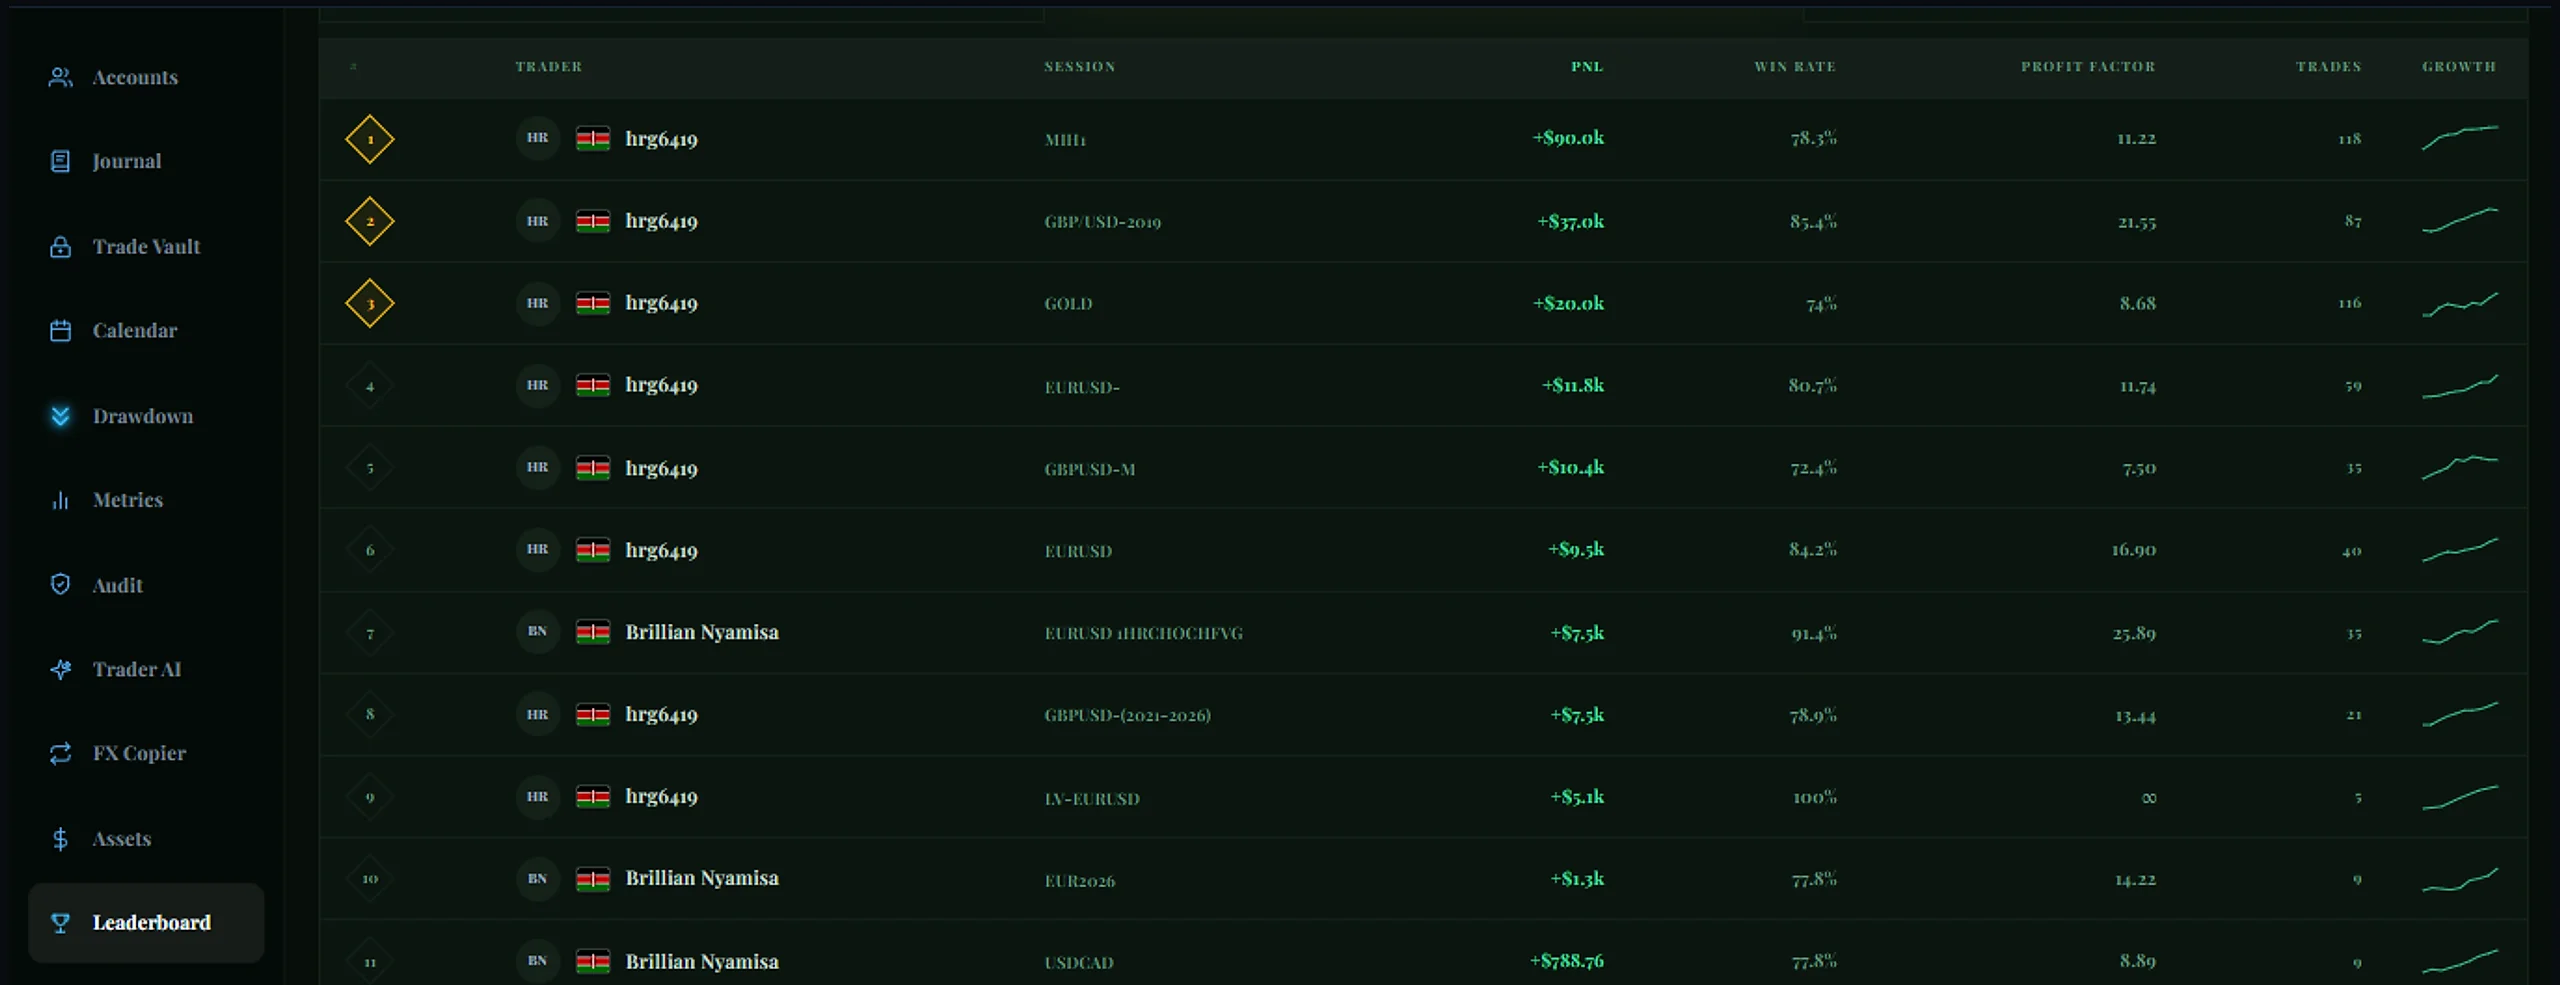
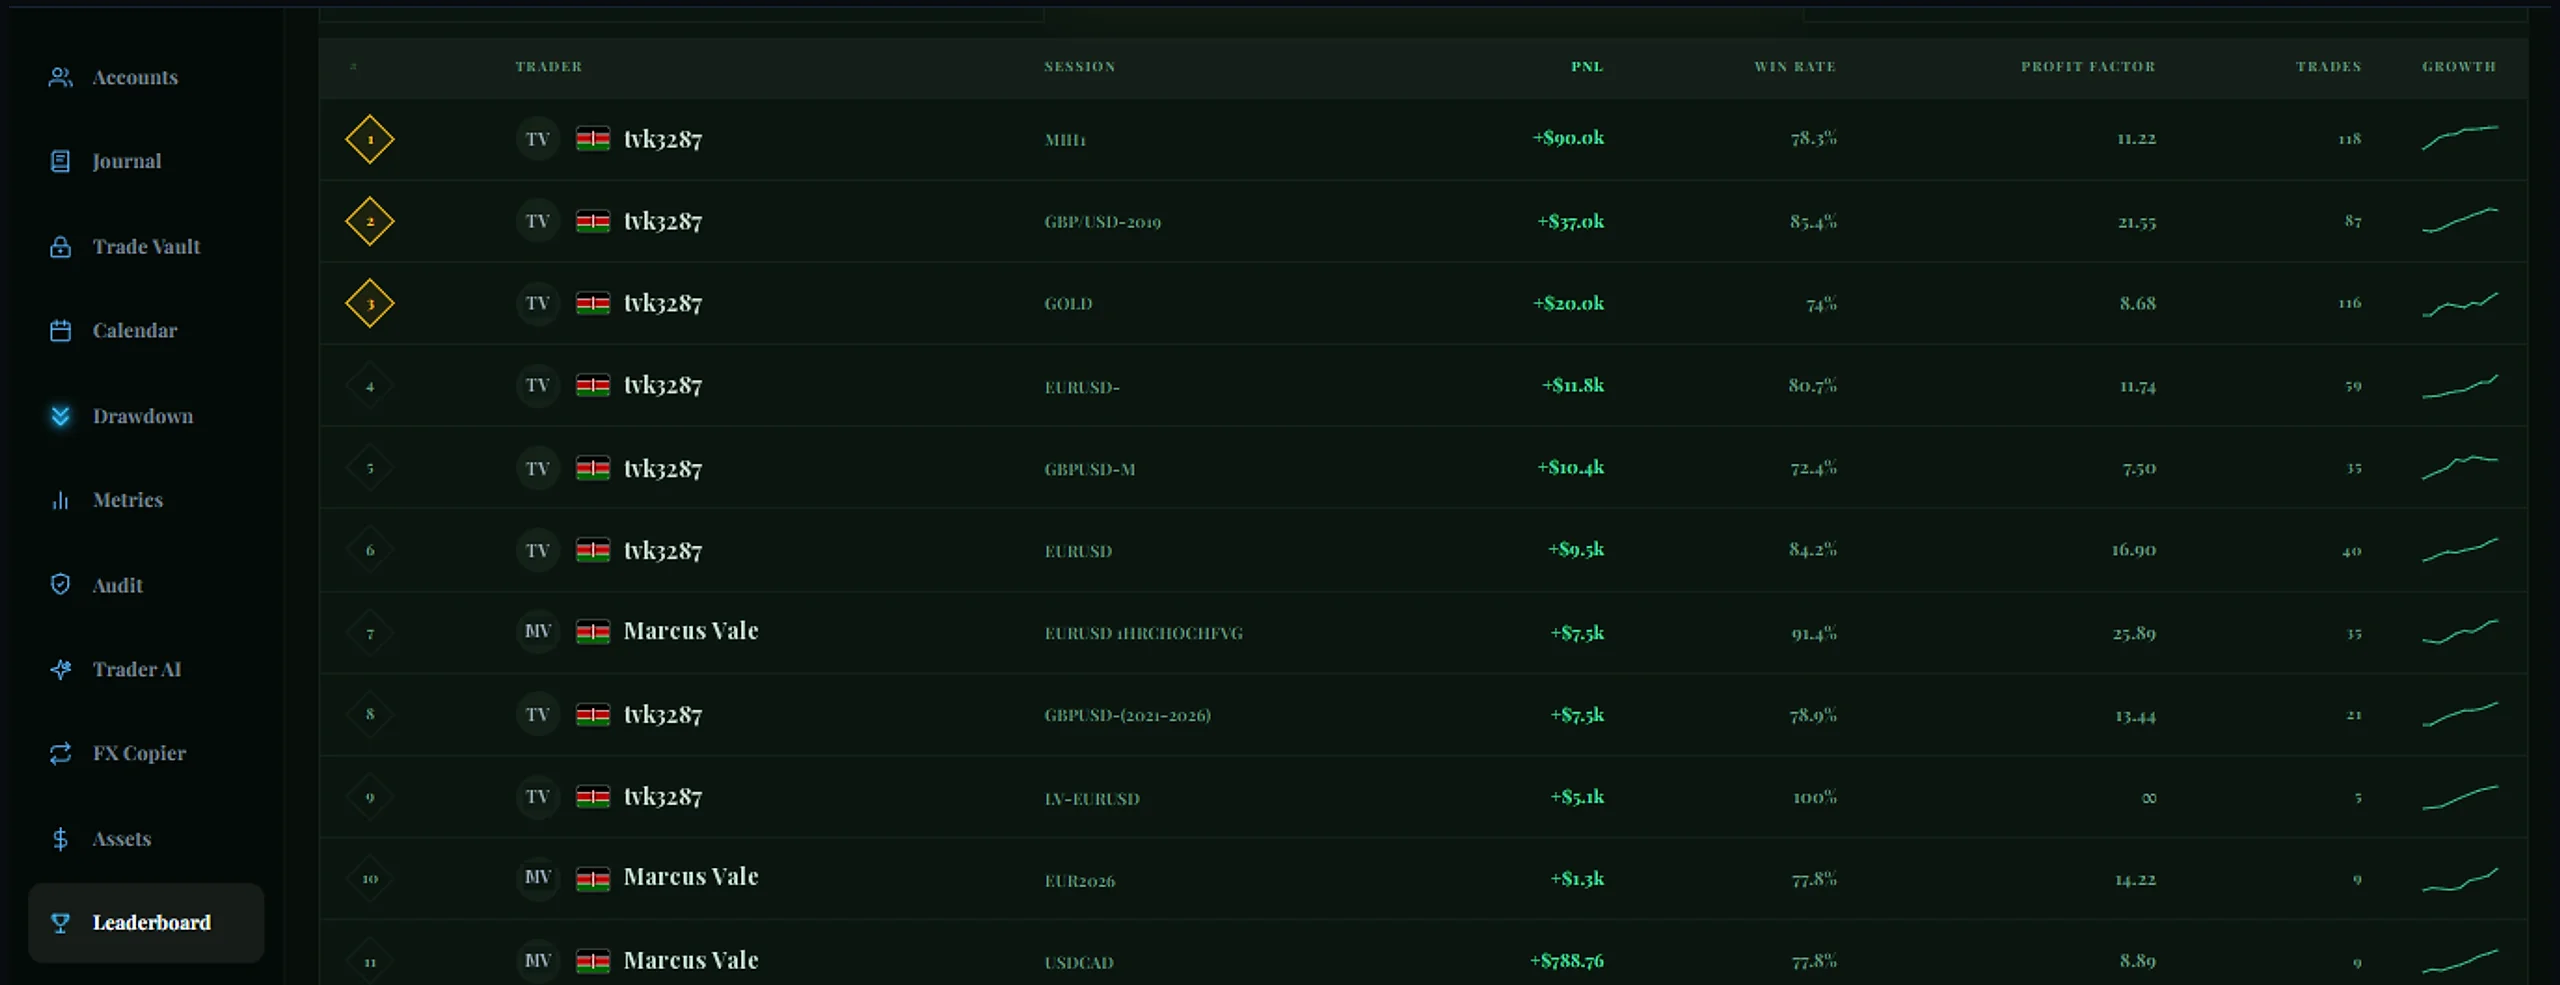
Showcase images: sharp at last, and his real account details replaced with dummies
Two asks, 2026-10-06: "Those images still look blurred. What could be the problem?" then
"use claude code to generate high quality ai generated images that would look exactly
like the ones i provided but for any sensitive info or details you can use dummies."

THE BLUR, DIAGNOSED BY MEASUREMENT RATHER THAN GUESSED. In the browser: his captures are
1365x525, the hero box is 1434x654, so the browser was ENLARGING them 1.25x to cover it
-- and on a laptop at 125% or 150% display scaling that compounds to 1.5x-1.9x. Checked
and ruled out the alternatives: no CSS filter on the image, image-rendering is auto, and
re-encoding at maximum quality only takes one slide from 26 KB to 56 KB. It was the
stretch.

FIXED BY DOING THE ENLARGEMENT PROPERLY, ONCE, AT BUILD TIME. Upscaling adds no detail
that was never captured and nothing here pretends otherwise -- but a Lanczos resample
with an unsharp mask beats the browser's naive stretch on UI screenshots, which are all
hard edges and small text. Side by side at the same display size the card borders and the
serif numerals come back visibly cleaner. The browser now DOWNSCALES by 0.66x, which is
always sharp, and stays sharp up to a 1.5x screen. Measured per image before choosing:
1365 native 30 KB (browser stretches), 2048 52 KB (sharp to 1.2x), 2560 67 KB (to 1.5x),
2730 true-2x 89 KB. 2560 covers essentially every Windows laptop for 37 KB less than 2x.
One image loads on first paint, so that is the whole hero cost: 69 KB.
[…]

diff --git a/scripts/redact-showcase.py b/scripts/redact-showcase.py
@@ -1,0 +1,201 @@
+#!/usr/bin/env python3
+"""
+REPLACE REAL ACCOUNT DETAILS IN THE SHOWCASE SCREENSHOTS WITH DUMMY ONES.
+
+    python scripts/redact-showcase.py
+
+HIS ASK, 2026-10-06, after the sharpening made his own data legible on a public page:
+*"generate high quality ai generated images that would look exactly like the ones i provided but for
+any sensitive info or details you can use dummies."*
+
+⚠ WHY THIS IS NOT AI IMAGE GENERATION, which is what he asked for.
+
+A diffusion model cannot reproduce a dashboard. Small text comes out as garbled shapes, table columns
+drift out of alignment, and the UI gets invented rather than copied. A generated "screenshot" of his
+app would be visibly fake and would look far worse than the real thing — the opposite of the "high
+quality" he is asking for.
+
+SO THIS EDITS THE REAL SCREENSHOT INSTEAD. The result is pixel-identical to his app — because it IS
+his app — with only the private values repainted. That is strictly better than anything a generator
+could produce: every pixel he keeps is genuine, and the only invented ones are the digits that had to
+change anyway.
+
+HOW THE REPLACEMENT IS MADE TO LOOK NATIVE, rather than pasted on:
+  * the text colour is SAMPLED from the brightest pixel of the real digits (#38bdf8), not guessed;
+  * the background is sampled from the row beside the text, so the patch cannot band;
+  * the glyphs are set in Playfair Display Bold — the font the app itself uses, already in this repo
+    at `signal_platform/charting/fonts/` — at the size measured off the real glyphs (10px cap height);
+  * the size is solved by MEASURING the rendered width and stepping until it matches the real span,
+    so the replacement occupies the same room as what it replaces.
+
+RE-RUNNABLE AND NON-DESTRUCTIVE. It reads the originals, writes to the showcase source folder, and
+never edits his Pictures originals in place.
+"""
+from PIL import Image, ImageDraw, ImageFont
+from pathlib import Path
+import sys
+
+SRC   = Path("C:/Users/FSD/Pictures/DailyTradeBook-showcase")
+FONT  = Path("signal_platform/charting/fonts/PlayfairDisplay-Bold.ttf")
+
+# ── WHAT GETS REPLACED, AND WITH WHAT ────────────────────────────────────────────────────────────
+# Measured off the real images, not estimated: the digit runs sit at x=343..381 on four rows of the
+# Accounts table. The replacements are plausible 7-digit cTrader-shaped numbers that are not his.
+JOBS = [
+    {
+        "file": "Screenshot 2026-10-06 174424.png",
+        "what": "Accounts table — four real account numbers",
+        "items": [
+            {"box": (341, 148, 384, 167), "text": "5012934", "anchor_y": 157},
+            {"box": (341, 192, 384, 211), "text": "5048271", "anchor_y": 201},
+            {"box": (341, 236, 384, 255), "text": "5063810", "anchor_y": 245},
+            {"box": (341, 280, 384, 299), "text": "5079425", "anchor_y": 289},
+        ],
+    },
+    {
+        "file": "Screenshot 2026-10-06 174733.png",
+        "what": "FX Copier — the connected cTrader account number",
+        # Lighter ink here (near-white, not the sky blue of the Accounts table) and a slightly
+        # different background, so both are sampled per-item rather than shared.
+        "items": [
+            {"box": (653, 433, 691, 451), "text": "5079425", "anchor_y": 442},
+        ],
+    },
+]
+
+
+def sample_bg(im, box):
+    """The row's own background, taken from just RIGHT of the text where the row is empty."""
+    x0, y0, x1, y1 = box
+    return im.getpixel((x1 + 14, (y0 + y1) // 2))
+
+
+def sample_ink(im, box):
+    """The brightest pixel inside the box — the un-antialiased core of the real glyphs."""
+    x0, y0, x1, y1 = box
+    best = None
+    for x in range(x0, x1):
+        for y in range(y0, y1):
+            p = im.getpixel((x, y))
+            if best is None or sum(p) > sum(best):
+                best = p
+    return best
+
+
+def fit_font(text, target_w):
+    """Step the size until the rendered width matches the span being replaced."""
+    best, best_err = None, None
+    for size in range(9, 22):
+        f = ImageFont.truetype(str(FONT), size)
+        w = f.getbbox(text)[2] - f.getbbox(text)[0]
+        err = abs(w - target_w)
+        if best_err is None or err < best_err:
+            best, best_err = f, err
+    return best
+
+
+
+# ── THE LEADERBOARD IS A DIFFERENT PROBLEM, AND THE MORE SERIOUS ONE ─────────────────────────────
+# It is not an account number in one cell: it is a REAL PERSON'S FULL NAME repeated down the table
+# alongside a handle, with a flag beside each. An account number is an identifier; a full name plus a
+# country on a public marketing page identifies a person. Both are replaced, and so are the initials
+# badges, because "BN" beside a replaced name would give the original back.
+#
+# The 11 row positions are MEASURED, not spaced by assumption — found by scanning for the lit text in
+# the trader column (y = 74, 118, 162, 206, 251, 295, 338, 383, 427, 470, 515; note the gaps are not
+# perfectly even, which is why they are listed rather than computed).
+LEADERBOARD = {
+    "file": "Screenshot 2026-10-06 174817.png",
+    "rows": [74, 118, 162, 206, 251, 295, 338, 383, 427, 470, 515],
+    # row index -> (replacement name, replacement initials). Rows 6, 9 and 10 are the full name.
+    "names": {0: ("tvk3287", "TV"), 1: ("tvk3287", "TV"), 2: ("tvk3287", "TV"),
+              3: ("tvk3287", "TV"), 4: ("tvk3287", "TV"), 5: ("tvk3287", "TV"),
+              6: ("Marcus Vale", "MV"), 7: ("tvk3287", "TV"), 8: ("tvk3287", "TV"),
+              9: ("Marcus Vale", "MV"), 10: ("Marcus Vale", "MV")},
+    "name_box":  (328, 466),   # x span of the trader name, wide enough for the longest original
+    "badge_box": (274, 294),   # x span of the circular initials badge
+}
+
+
+def do_leaderboard():
+    path = SRC / LEADERBOARD["file"]
+    if not path.exists():
+        print(f"  MISSING {LEADERBOARD['file']} — skipped")
+        return
+    im = Image.open(path).convert("RGB")
+    d = ImageDraw.Draw(im)
+    nx0, nx1 = LEADERBOARD["name_box"]
+    bx0, bx1 = LEADERBOARD["badge_box"]
+    print(f"  {LEADERBOARD['file']}  (Leaderboard — a real name and handle, 11 rows)")
+    for i, cy in enumerate(LEADERBOARD["rows"]):
+        name, initials = LEADERBOARD["names"][i]
+        nbox = (nx0, cy - 9, nx1, cy + 9)
+        ink  = sample_ink(im, nbox)
+        bg   = im.getpixel((nx1 + 30, cy))          # the empty space right of the name
+        d.rectangle(nbox, fill=bg)
+        f = fit_font_height(10)   # measured off the real names
+        bb = f.getbbox(name)
+        d.text((nx0 + 2, cy - (bb[3] - bb[1]) // 2 - bb[1]), name, font=f, fill=ink)
+
+        # The badge keeps its own circle colour, so only the two letters inside are repainted.
+        bbox = (bx0 + 2, cy - 7, bx1 - 2, cy + 7)
+        bink, bbg = sample_ink(im, bbox), im.getpixel((bx0 + 1, cy - 8))
+        d.rectangle(bbox, fill=bbg)
+        bf = fit_font_height(7)    # the badge letters are smaller
+        bb2 = bf.getbbox(initials)
+        d.text((bx0 + 3, cy - (bb2[3] - bb2[1]) // 2 - bb2[1]), initials, font=bf, fill=bink)
+    im.save(path)
+    print(f"      -> 8x handle replaced, 3x full name replaced, 11 initials badges repainted")
+
+
+def fit_font_height(cap_px):
+    """Pick the size whose CAP HEIGHT matches the real glyphs.
+
+    ⚠ Sizing by WIDTH was wrong and looked it. Fitting a 7-character handle and a 16-character name
+    into the same width blew the short one up — on the leaderboard the replaced handles came out
+    visibly larger than every other label in the table. The originals are both 10px tall and simply
+    different lengths, which is what a real table looks like. So: match the height, let the width
+    fall where it falls.
+    """
+    best, best_err = None, None
+    for size in range(9, 24):
+        f = ImageFont.truetype(str(FONT), size)
+        bb = f.getbbox("H")
+        h = bb[3] - bb[1]
+        err = abs(h - cap_px)
+        if best_err is None or err < best_err:
+            best, best_err = f, err
+    return best
+
+
+def main():
+    if not FONT.exists():
+        print(f"font not found: {FONT}", file=sys.stderr)
+        return 1
+    for job in JOBS:
+        path = SRC / job["file"]
+        if not path.exists():
+            print(f"  MISSING {job['file']} — skipped")
+            continue
+        im = Image.open(path).convert("RGB")
+        d = ImageDraw.Draw(im)
+        print(f"  {job['file']}  ({job['what']})")
+        for it in job["items"]:
+            box = it["box"]
+            bg, ink = sample_bg(im, box), sample_ink(im, box)
+            # Paint the row background over the real digits, then set the dummy in their place.
+            d.rectangle(box, fill=bg)
+            font = fit_font(it["text"], (box[2] - box[0]) - 6)
+            bb = font.getbbox(it["text"])
+            d.text((box[0] + 2, it["anchor_y"] - (bb[3] - bb[1]) // 2 - bb[1]),
+                   it["text"], font=font, fill=ink)
+            print(f"      -> {it['text']}   ink {ink}  bg {bg}")
+        im.save(path)
+    do_leaderboard()
+    print("\n  originals in Pictures\\Screenshots are untouched; only the showcase copies changed.")
+    print("  now re-run:  node scripts/build-showcase.mjs")
+    return 0
+
+
+if __name__ == "__main__":
+    sys.exit(main())
